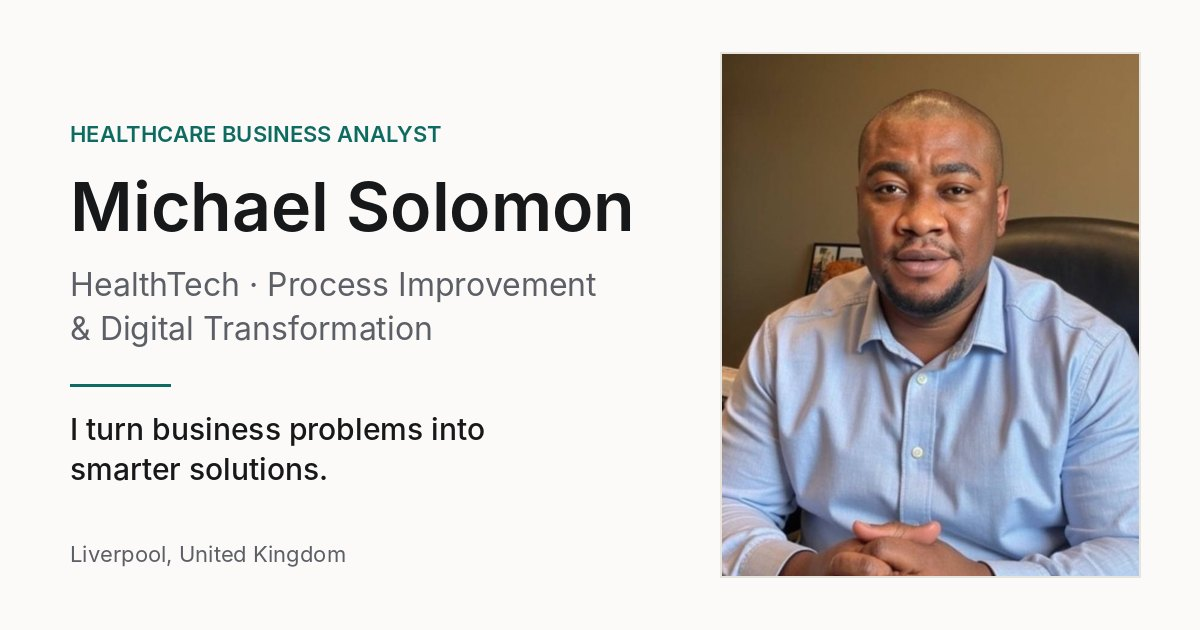
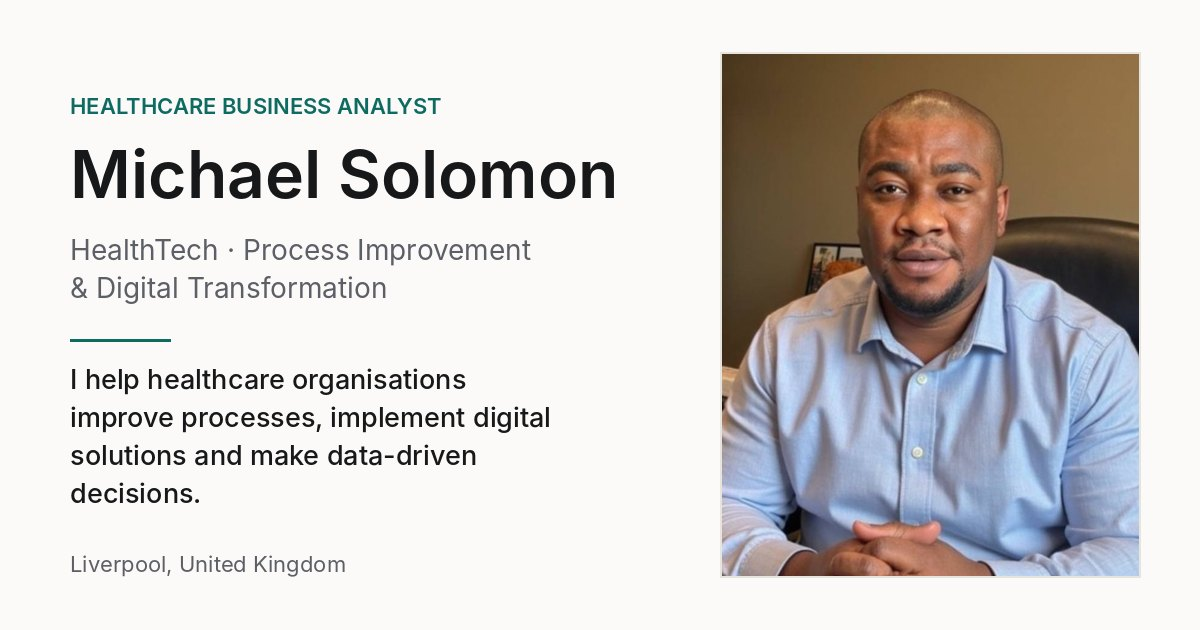
Hero: healthcare value proposition in typewriter line; update SEO text and social image
Claude-Session: https://claude.ai/code/session_01HU4F3jmZ8w97SEnbzk774T

Changed region(s): [[0.0617, 0.1508, 0.5242, 0.5429], [0.0617, 0.573, 0.4625, 0.8143], [0.0617, 0.8746, 0.3083, 0.9048]]

diff --git a/index.html b/index.html
@@ -15,7 +15,7 @@
   <!-- Open Graph (LinkedIn, Facebook, WhatsApp previews) -->
   <meta property="og:type" content="website">
   <meta property="og:title" content="Michael Solomon — Healthcare Business Analyst">
-  <meta property="og:description" content="I turn business problems into smarter solutions. Healthcare business analysis, process improvement and digital transformation.">
+  <meta property="og:description" content="I help healthcare organisations improve processes, implement digital solutions and make data-driven decisions — through evidence-based business analysis.">
   <meta property="og:url" content="https://adusmichael.github.io/theanalyst/">
   <meta property="og:image" content="https://adusmichael.github.io/theanalyst/assets/images/og-image.jpg">
   <meta property="og:locale" content="en_GB">
@@ -23,7 +23,7 @@
   <!-- Twitter / X -->
   <meta name="twitter:card" content="summary_large_image">
   <meta name="twitter:title" content="Michael Solomon — Healthcare Business Analyst">
-  <meta name="twitter:description" content="I turn business problems into smarter solutions.">
+  <meta name="twitter:description" content="I help healthcare organisations improve processes, implement digital solutions and make data-driven decisions — through evidence-based business analysis.">
   <meta name="twitter:image" content="https://adusmichael.github.io/theanalyst/assets/images/og-image.jpg">
 
   <meta name="theme-color" content="#fbfaf8" media="(prefers-color-scheme: light)">
@@ -38,7 +38,7 @@
   <link rel="preconnect" href="https://fonts.googleapis.com">
   <link rel="preconnect" href="https://fonts.gstatic.com" crossorigin>
   <link href="https://fonts.googleapis.com/css2?family=Inter:wght@400;500;600;700&family=Instrument+Serif:ital@0;1&display=swap" rel="stylesheet">
-  <link rel="stylesheet" href="assets/css/style.css?v=20261024c">
+  <link rel="stylesheet" href="assets/css/style.css?v=20261024d">
 </head>
 
 <body data-root="" data-page="home">
@@ -102,8 +102,8 @@
           <h1 class="hero-name" id="hero-name"><span data-field="name">Michael Solomon</span></h1>
           <p class="hero-aka">also known as <span data-field="alsoKnownAs">Adus Michael</span></p>
           <p class="hero-title" data-field="title">Healthcare Business Analyst</p>
-          <p class="typed-line" id="typed-line" aria-label="I turn business problems into smarter solutions.">
-            <span aria-hidden="true"><span id="typed-prefix">I turn business problems into</span> <span class="typed" id="typed"></span><span class="cursor">|</span></span>
+          <p class="typed-line" id="typed-line" aria-label="I help healthcare organisations improve processes, implement digital solutions and make data-driven decisions — through evidence-based business analysis.">
+            <span aria-hidden="true"><span id="typed-prefix">I help healthcare organisations</span> <span class="typed" id="typed"></span><span class="cursor">|</span></span>
           </p>
           <p class="hero-intro" data-field="heroIntro"></p>
           <div class="hero-cta">
@@ -326,8 +326,8 @@
 
   <noscript><p class="noscript">Please enable JavaScript to see the full portfolio.</p></noscript>
 
-  <script src="assets/js/data.js?v=20261024c"></script>
-  <script src="assets/js/articles.js?v=20261024c"></script>
-  <script src="assets/js/script.js?v=20261024c"></script>
+  <script src="assets/js/data.js?v=20261024d"></script>
+  <script src="assets/js/articles.js?v=20261024d"></script>
+  <script src="assets/js/script.js?v=20261024d"></script>
 </body>
 </html>

diff --git a/assets/js/data.js b/assets/js/data.js
@@ -15,9 +15,9 @@ window.portfolioData = {
   alsoKnownAs: "Adus Michael",
   title: "Healthcare Business Analyst | HealthTech Professional | Process Improvement & Digital Transformation",
   location: "Liverpool, United Kingdom",
-  tagline: "I turn business problems into smarter solutions.",
+  tagline: "I help healthcare organisations improve processes, implement digital solutions and make data-driven decisions — through evidence-based business analysis.",
   heroIntro:
-    "I bring together healthcare knowledge, stakeholder engagement, requirements engineering, and data-driven thinking to support informed decision-making and successful change initiatives.",
+    "Through evidence-based business analysis — bringing together healthcare knowledge, stakeholder engagement, requirements engineering and data-driven thinking.",
   photo: "assets/images/profile.jpg",
   photoAlt: "Portrait of Michael Solomon",
 
@@ -27,8 +27,8 @@ window.portfolioData = {
      heroTags: the three small labels floating around the photo
      marquee: words in the scrolling strip under the hero */
   heroStatus: "Open to opportunities",
-  typedPrefix: "I turn business problems into",
-  typedPhrases: ["smarter solutions.", "clear requirements.", "better processes.", "evidence-based decisions."],
+  typedPrefix: "I help healthcare organisations",
+  typedPhrases: ["improve processes.", "implement digital solutions.", "make data-driven decisions."],
   heroTags: ["Healthcare BA", "HealthTech", "Process Improvement"],
   marquee: [
     "Requirements Engineering", "Stakeholder Analysis", "Process Mapping", "AS-IS / TO-BE",

diff --git a/insights/article.html b/insights/article.html
@@ -15,7 +15,7 @@
   <link rel="preconnect" href="https://fonts.googleapis.com">
   <link rel="preconnect" href="https://fonts.gstatic.com" crossorigin>
   <link href="https://fonts.googleapis.com/css2?family=Inter:wght@400;500;600;700&family=Instrument+Serif:ital@0;1&display=swap" rel="stylesheet">
-  <link rel="stylesheet" href="../assets/css/style.css?v=20261024c">
+  <link rel="stylesheet" href="../assets/css/style.css?v=20261024d">
 </head>
 <body data-root="../" data-page="article">
   <a class="skip-link" href="#main">Skip to content</a>
@@ -84,8 +84,8 @@
     <div class="container"><p class="copyright">© <span id="year">2026</span> <span data-field="name">Michael Solomon</span></p></div>
   </footer>
 
-  <script src="../assets/js/data.js?v=20261024c"></script>
-  <script src="../assets/js/articles.js?v=20261024c"></script>
-  <script src="../assets/js/script.js?v=20261024c"></script>
+  <script src="../assets/js/data.js?v=20261024d"></script>
+  <script src="../assets/js/articles.js?v=20261024d"></script>
+  <script src="../assets/js/script.js?v=20261024d"></script>
 </body>
 </html>

diff --git a/projects/case-study.html b/projects/case-study.html
@@ -15,7 +15,7 @@
   <link rel="preconnect" href="https://fonts.googleapis.com">
   <link rel="preconnect" href="https://fonts.gstatic.com" crossorigin>
   <link href="https://fonts.googleapis.com/css2?family=Inter:wght@400;500;600;700&family=Instrument+Serif:ital@0;1&display=swap" rel="stylesheet">
-  <link rel="stylesheet" href="../assets/css/style.css?v=20261024c">
+  <link rel="stylesheet" href="../assets/css/style.css?v=20261024d">
 </head>
 <body data-root="../" data-page="case-study">
   <a class="skip-link" href="#main">Skip to content</a>
@@ -84,7 +84,7 @@
     <div class="container"><p class="copyright">© <span id="year">2026</span> <span data-field="name">Michael Solomon</span></p></div>
   </footer>
 
-  <script src="../assets/js/data.js?v=20261024c"></script>
-  <script src="../assets/js/script.js?v=20261024c"></script>
+  <script src="../assets/js/data.js?v=20261024d"></script>
+  <script src="../assets/js/script.js?v=20261024d"></script>
 </body>
 </html>

diff --git a/assets/js/script.js b/assets/js/script.js
@@ -204,7 +204,7 @@
     if (typedEl && phrases.length) {
       var prefix = has(D.typedPrefix) ? D.typedPrefix : "";
       if (prefixEl) prefixEl.textContent = prefix;
-      line.setAttribute("aria-label", (prefix + " " + phrases[0]).trim());
+      line.setAttribute("aria-label", has(D.tagline) ? D.tagline : (prefix + " " + phrases[0]).trim());
       if (reduceMotion || phrases.length === 1) {
         typedEl.textContent = phrases[0];
         var cur = $(".cursor", line); if (cur) cur.hidden = true;
